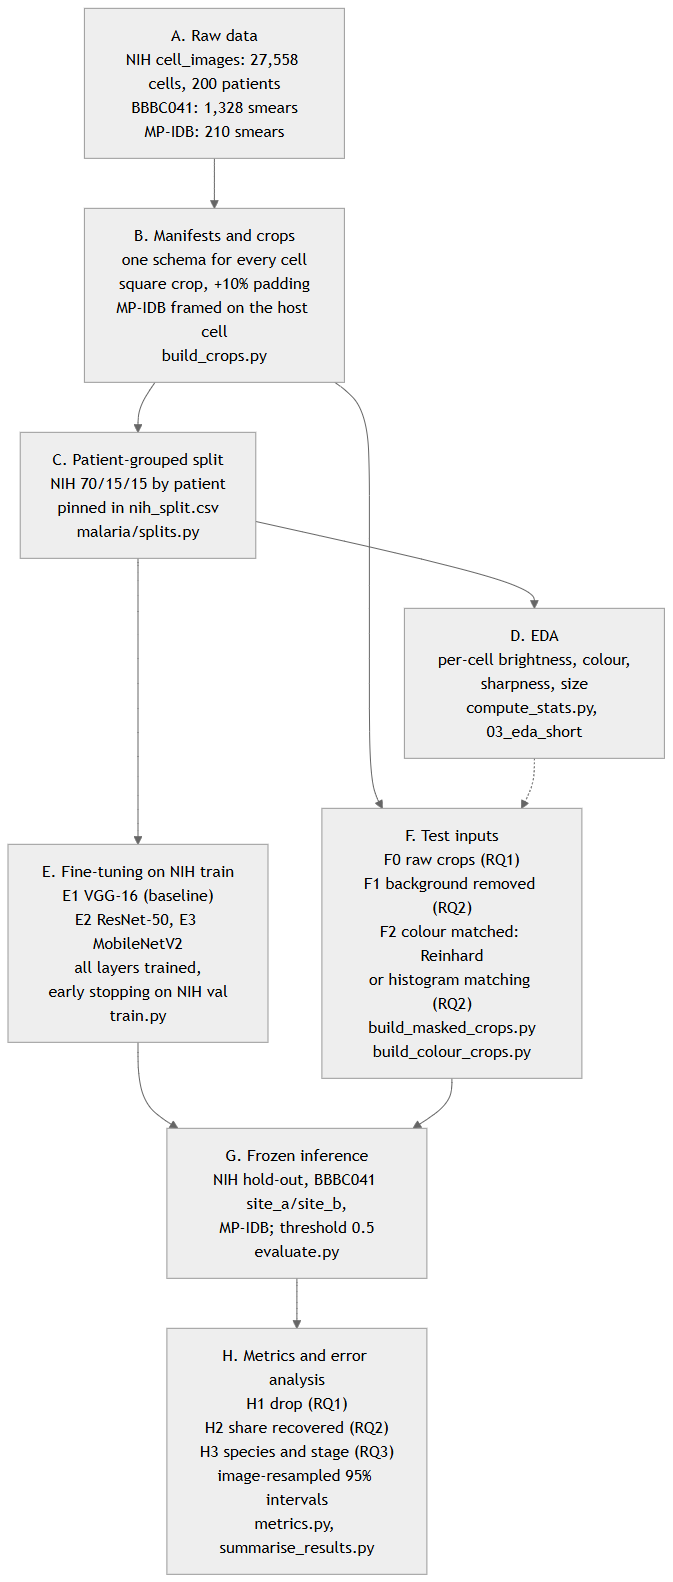
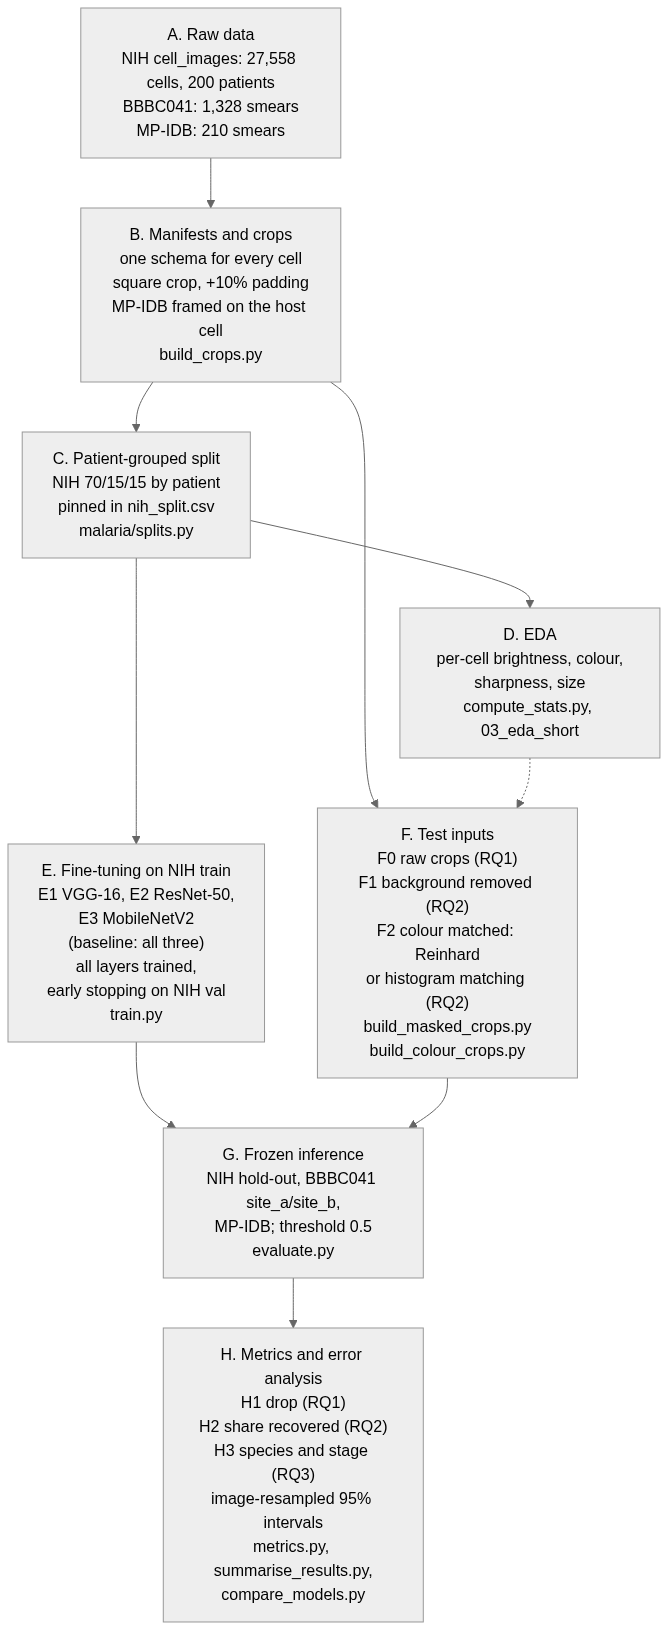
Show the full RQ2 table and correct the baseline label and split wording
The §9 RQ2 table listed only MP-IDB falciparum and site_a rows without saying
so. It now holds every external set and metric for all three models, generated
from rq2_<model>_s0.csv, and the text covers the site_b and other-species
results. Figure 1 names all three architectures as the baseline, and §3 no
longer suggests the patient split targets class balance.

diff --git a/docs/methodology_overview.md b/docs/methodology_overview.md
@@ -44,7 +44,7 @@ flowchart TB
     C["C. Patient-grouped split<br/>NIH 70/15/15 by patient<br/>pinned in nih_split.csv<br/>malaria/splits.py"]
     D["D. EDA<br/>per-cell brightness, colour,<br/>sharpness, size<br/>compute_stats.py, 03_eda_short"]
     F["F. Test inputs<br/>F0 raw crops (RQ1)<br/>F1 background removed (RQ2)<br/>F2 colour matched: Reinhard<br/>or histogram matching (RQ2)<br/>build_masked_crops.py<br/>build_colour_crops.py"]
-    E["E. Fine-tuning on NIH train<br/>E1 VGG-16, E2 ResNet-50,<br/>E3 MobileNetV2 (the baseline)<br/>all layers trained,<br/>early stopping on NIH val<br/>train.py"]
+    E["E. Fine-tuning on NIH train<br/>E1 VGG-16, E2 ResNet-50,<br/>E3 MobileNetV2<br/>(baseline: all three)<br/>all layers trained,<br/>early stopping on NIH val<br/>train.py"]
     G["G. Frozen inference<br/>NIH hold-out, BBBC041 site_a/site_b,<br/>MP-IDB; threshold 0.5<br/>evaluate.py"]
     H["H. Metrics and error analysis<br/>H1 drop (RQ1)<br/>H2 share recovered (RQ2)<br/>H3 species and stage (RQ3)<br/>image-resampled 95% intervals<br/>metrics.py, summarise_results.py,<br/>compare_models.py"]
     A --> B --> C --> D
@@ -157,7 +157,7 @@ Output: `data/manifests/*_cells.csv` (rebuilt deterministically, so gitignored) 
 
 **Script:** [`malaria/splits.py`](../malaria/splits.py); pinned output [`data/manifests/nih_split.csv`](../data/manifests/nih_split.csv)
 
-NIH is split 70/15/15 by patient (`splits.patient_grouped_split`, seed 42). Patients are assigned greedily, largest first, to whichever split is furthest below its target, which keeps the class balance close to 50/50 without splitting any patient. The split was computed once and written to the tracked `nih_split.csv`, so all three architectures train on the same rows.
+NIH is split 70/15/15 by patient (`splits.patient_grouped_split`, seed 42). Patients are assigned greedily, largest first, to whichever split is furthest below its target number of cells, so no patient is split. The assignment does not target class balance, but every split stays close to 50/50 (table below). The split was computed once and written to the tracked `nih_split.csv`, so all three architectures train on the same rows.
 
 ### Split similarity
 
@@ -390,20 +390,32 @@ For VGG-16 a likely reading is that the model misses the smallest parasite form,
 
 | Test set, metric | Model | Raw | Background removed | + Reinhard | + Histogram matching |
 |---|---|---:|---:|---:|---:|
-| MP-IDB *P. falciparum* sensitivity | VGG-16 | 57.4 | 71.9 | 66.4 | 99.5 |
-| | ResNet-50 | 52.6 | 63.9 | 52.3 | 98.1 |
-| | MobileNetV2 | 28.6 | 27.2 | 32.9 | 95.4 |
-| site_a specificity | VGG-16 | 65.5 | 53.6 | 74.9 | 5.9 |
-| | ResNet-50 | 87.3 | 66.6 | 82.0 | 6.6 |
-| | MobileNetV2 | 90.0 | 78.9 | 96.3 | 44.4 |
 | site_a sensitivity | VGG-16 | 99.3 | 99.4 | 80.5 | 99.8 |
-| | ResNet-50 | 79.3 | 92.6 | 42.8 | 98.4 |
-| | MobileNetV2 | 83.7 | 84.3 | 15.9 | 96.6 |
+|  | ResNet-50 | 79.3 | 92.6 | 42.8 | 98.4 |
+|  | MobileNetV2 | 83.7 | 84.3 | 15.9 | 96.6 |
+| site_b sensitivity | VGG-16 | 89.8 | 90.8 | 89.8 | 100.0 |
+|  | ResNet-50 | 68.0 | 73.6 | 75.9 | 95.0 |
+|  | MobileNetV2 | 30.4 | 36.6 | 47.2 | 80.5 |
+| MP-IDB *P. falciparum* sensitivity | VGG-16 | 57.4 | 71.9 | 66.4 | 99.5 |
+|  | ResNet-50 | 52.6 | 63.9 | 52.3 | 98.1 |
+|  | MobileNetV2 | 28.6 | 27.2 | 32.9 | 95.4 |
+| MP-IDB other species sensitivity | VGG-16 | 80.0 | 82.9 | 70.0 | 100.0 |
+|  | ResNet-50 | 56.4 | 67.9 | 42.1 | 99.3 |
+|  | MobileNetV2 | 38.6 | 37.9 | 28.6 | 88.6 |
+| site_a specificity | VGG-16 | 65.5 | 53.6 | 74.9 | 5.9 |
+|  | ResNet-50 | 87.3 | 66.6 | 82.0 | 6.6 |
+|  | MobileNetV2 | 90.0 | 78.9 | 96.3 | 44.4 |
+| site_b specificity | VGG-16 | 95.0 | 86.2 | 80.3 | 1.1 |
+|  | ResNet-50 | 98.1 | 98.3 | 89.8 | 15.0 |
+|  | MobileNetV2 | 99.1 | 97.2 | 98.1 | 41.9 |
 | site_a AUC | VGG-16 | 97.2 | 96.6 | 85.6 | 91.6 |
-| | ResNet-50 | 92.0 | 90.2 | 74.5 | 72.7 |
-| | MobileNetV2 | 94.5 | 89.6 | 84.1 | 88.5 |
+|  | ResNet-50 | 92.0 | 90.2 | 74.5 | 72.7 |
+|  | MobileNetV2 | 94.5 | 89.6 | 84.1 | 88.5 |
+| site_b AUC | VGG-16 | 97.5 | 95.8 | 93.7 | 73.0 |
+|  | ResNet-50 | 96.4 | 96.1 | 91.6 | 72.5 |
+|  | MobileNetV2 | 93.0 | 87.2 | 87.6 | 69.4 |
 
-Values in %; every set, metric and share recovered is in `rq2_<model>_s0.csv`. Removing the background raises MP-IDB *P. falciparum* sensitivity for VGG-16 (recovering 36% of its drop) and ResNet-50 (25%), but not for MobileNetV2, and it lowers site_a specificity for all three. Reinhard transfer raises site_a specificity for VGG-16 and MobileNetV2 but costs sensitivity, down to 15.9% for MobileNetV2. Histogram matching pushes almost every cell to *parasitised* for all three models: sensitivity is 80 to 100% on every set, while site_a specificity falls to 5.9 to 44.4%. Compared with the raw crops, no step raises AUC on either BBBC041 site for any model. Leaving out the 1,022 BBBC041 cells whose mask fell back to a neighbouring region changes no BBBC041 value by more than 2.2 points for any model (`rq2_<model>_s0_without_nearest.csv`).
+Values in %; the table holds every external set and metric, and the shares recovered and intervals are in `rq2_<model>_s0.csv`. Removing the background raises MP-IDB *P. falciparum* sensitivity for VGG-16 (recovering 36% of its drop) and ResNet-50 (25%), but not for MobileNetV2. It also raises site_b sensitivity for all three models (by 1.0 to 6.2 points) and MP-IDB other-species sensitivity for ResNet-50 (56.4 to 67.9), while it lowers site_a specificity for all three and site_b specificity for VGG-16 (95.0 to 86.2). Reinhard transfer raises site_a specificity for VGG-16 and MobileNetV2 but costs site_a sensitivity, down to 15.9% for MobileNetV2; on site_b it raises sensitivity for MobileNetV2 (30.4 to 47.2) and ResNet-50 (68.0 to 75.9). Histogram matching pushes almost every cell to *parasitised* for all three models: sensitivity is 80 to 100% on every set, while specificity falls to 5.9 to 44.4% on site_a and 1.1 to 41.9% on site_b. Compared with the raw crops, no step raises AUC on either BBBC041 site for any model. Leaving out the 1,022 BBBC041 cells whose mask fell back to a neighbouring region changes no BBBC041 value by more than 2.2 points for any model (`rq2_<model>_s0_without_nearest.csv`).
 
 At the fixed threshold, the colour steps mostly move the models' scores instead of improving how well they separate the classes, and this holds for all three architectures. This has a methodological consequence. On MP-IDB, which has no uninfected cells, a higher sensitivity cannot tell a better model from one that calls more cells parasitised: histogram matching "recovers" 85 to 110% of the MP-IDB drops while destroying specificity on BBBC041. For the final analysis, RQ2's share recovered is therefore read together with BBBC041 specificity and AUC for the same step, and a sensitivity gain on MP-IDB counts as recovery only if AUC on BBBC041 does not fall (open decision 7).
 
